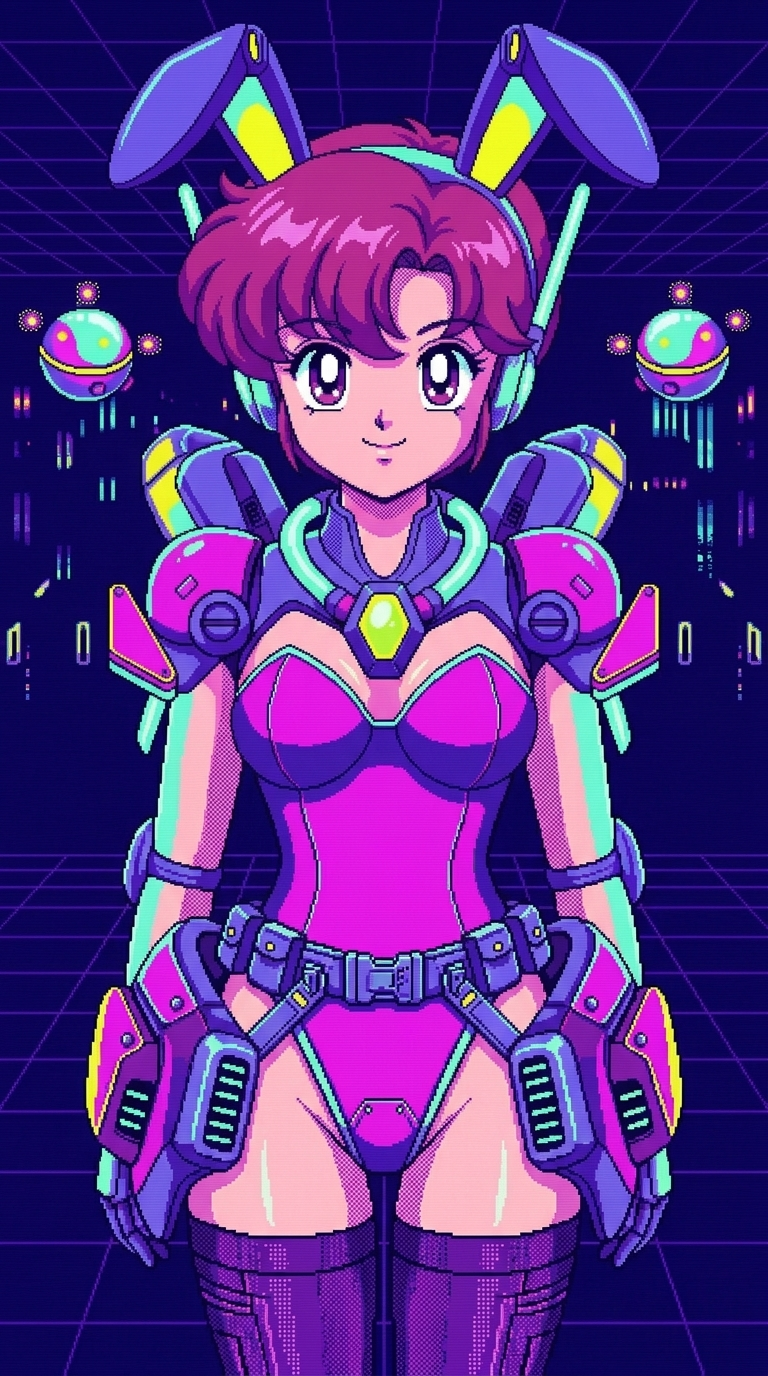
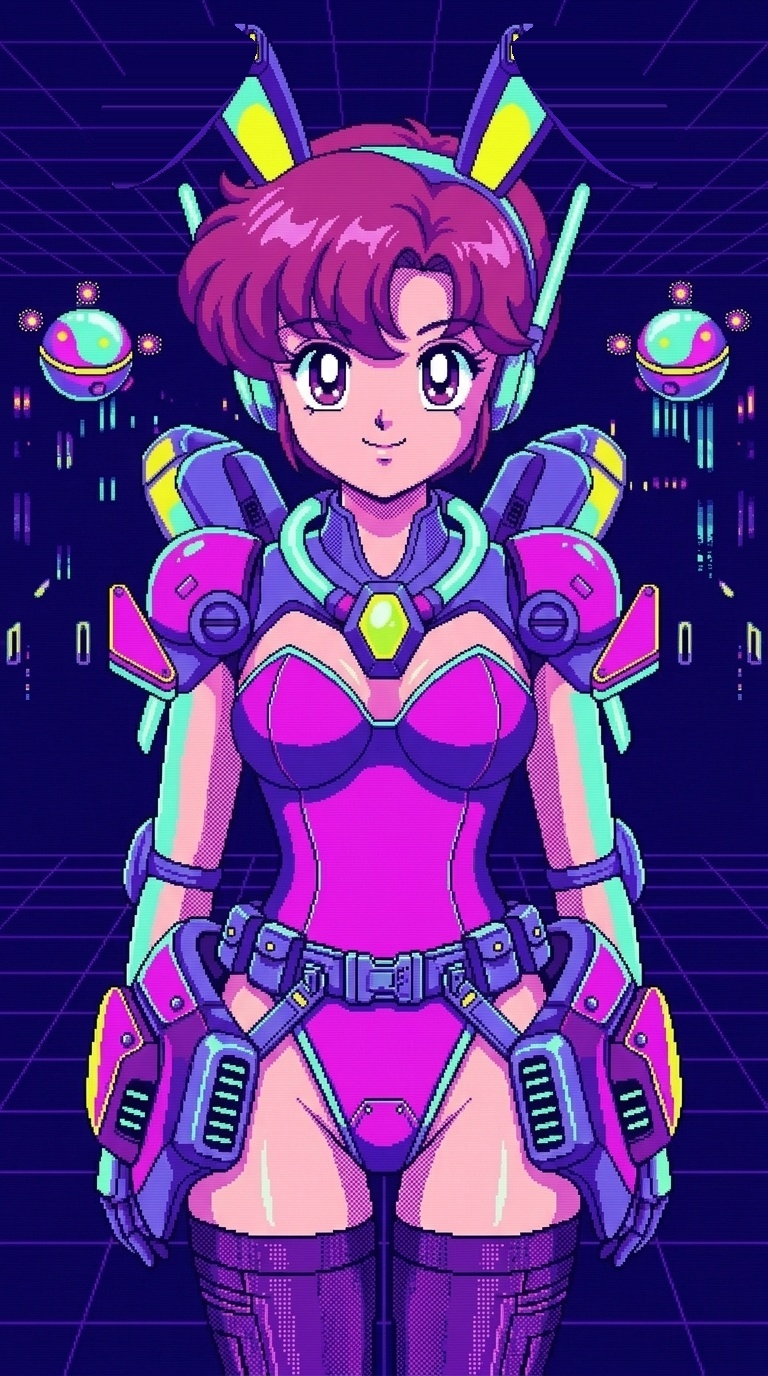
fix(render): isolate ear sprites with inpainted background to eliminate dark borders
Previously, dynamic ear swinging attempted to cover the static background
using a solid dark capsule underlay, and drew a clipped canvas slice of
the original illustration on top. This created unsightly black borders,
dark patches over the hair/cyber background, and a secondary ghosting
silhouette when the ear deflected.

This change delivers a proper 2D layered sprite pipeline:
- Extracted clean transparent PNG sprites (assets/stage1/ear_tip_L.png
  and ear_tip_R.png) with precise pixel boundaries for the purple dangling
  tips.
- Inpainted the underlying background images (centerpiece_armored.jpg
  and centerpiece.jpg), flawlessly extending the horizontal cyber grid
  lines, space gradient, and ear root frame behind the dangling tips.
- Rendered the ear tip sprites centered directly on their mechanical
  hinge pivots (ear.ax, ear.ay), swinging and squashing naturally with
  spring physics without any clipping masks, wireframe strokes, or black
  underlays.

TAG=agy
CONV=5c33f02a-cca7-4c71-903a-68b561f40031
MODEL=gemini-2.5-pro

Changed region(s): [[0.6562, 0.0, 0.875, 0.1562], [0.125, 0.0, 0.3438, 0.1562]]

diff --git a/js/game.js b/js/game.js
@@ -22,6 +22,11 @@ centerpieceImg.src = window.STAGE1_CENTERPIECE_URI || './assets/stage1/centerpie
 const centerpieceArmoredImg = new Image();
 centerpieceArmoredImg.src = './assets/stage1/centerpiece_armored.jpg';
 
+const earTipLImg = new Image();
+earTipLImg.src = './assets/stage1/ear_tip_L.png';
+const earTipRImg = new Image();
+earTipRImg.src = './assets/stage1/ear_tip_R.png';
+
 const defeatCgImg = new Image();
 defeatCgImg.src = './assets/stage1/defeat_cg.jpg';
 
@@ -1793,70 +1798,45 @@ function renderTable() {
       ctx.drawImage(facePatchImgs[activePatchKey], fx, fy, fw, fh);
     }
 
-    // Dynamic Rabbit Ear Tips Swing Animation ("ふにょん" elastic pendulum swing)
+    // Rabbit Ear Tips Sprite Rendering (Always rendered over background; swings with elastic pendulum physics)
     if (!isDefeat) {
-      const drawDynamicEarPatch = (which, ear) => {
-        const isSwinging = Math.abs(ear.angle) > 0.002 || Math.abs(ear.dx) > 0.1 || ear.flash > 0;
-        if (!isSwinging) return;
+      const drawEarTipSprite = (which, ear) => {
+        const img = which === "L" ? earTipLImg : earTipRImg;
+        if (!img.complete) return;
+
+        const isLeft = which === "L";
+        const pivotX = ear.ax;
+        const pivotY = ear.ay;
+
+        // Image scaling from 768x1376 to IMG_BOX
+        const sX = IMG_BOX.w / 768;
+        const sY = IMG_BOX.h / 1376;
+
+        // Pivot in sprite pixel coords
+        // Bboxes: L=(92, 22, 257, 185) -> hinge (255, 70) => (163, 48)
+        //         R=(512, 22, 677, 185) -> hinge (510, 70) => (-2, 48)
+        const sprPivotX = isLeft ? 163 : -2;
+        const sprPivotY = 48;
 
         ctx.save();
-        // Pivot at hinge joint
-        ctx.translate(ear.ax, ear.ay);
-
-        // Vector to tip in local coords
-        const localBx = ear.bx - ear.ax;
-        const localBy = ear.by - ear.ay;
-        const baseAngle = Math.atan2(localBy, localBx);
-        const earLen = Math.hypot(localBx, localBy);
-
-        // First, underlay mask to prevent ghosting behind the swinging ear
-        if (Math.abs(ear.angle) > 0.015) {
-          ctx.save();
-          ctx.rotate(baseAngle);
-          ctx.fillStyle = "#09031c"; // playfield background behind ear
-          ctx.beginPath();
-          ctx.arc(0, 0, ear.r + 2, Math.PI / 2, -Math.PI / 2);
-          ctx.lineTo(earLen, -ear.r * 0.9);
-          ctx.arc(earLen, 0, ear.r * 0.9, -Math.PI / 2, Math.PI / 2);
-          ctx.closePath();
-          ctx.fill();
-          ctx.restore();
-        }
-
-        // Apply swing angle around hinge
+        ctx.translate(pivotX, pivotY);
         ctx.rotate(ear.angle);
 
-        // Subtle elastic squash/stretch
-        const squash = Math.sin(ear.angle * 6) * 0.08;
+        // Subtle elastic squash/stretch during bounce
+        const squash = Math.sin(ear.angle * 6) * 0.05;
         ctx.scale(1 - squash, 1 + squash);
 
-        ctx.save();
-        ctx.rotate(baseAngle);
-        ctx.beginPath();
-        // Capsule contour matching dangling purple tip
-        ctx.arc(0, 0, ear.r, Math.PI / 2, -Math.PI / 2);
-        ctx.lineTo(earLen, -ear.r * 0.85);
-        ctx.arc(earLen, 0, ear.r * 0.85, -Math.PI / 2, Math.PI / 2);
-        ctx.closePath();
-        ctx.clip();
+        const drawX = -sprPivotX * sX;
+        const drawY = -sprPivotY * sY;
+        const drawW = img.width * sX;
+        const drawH = img.height * sY;
 
-        // Draw original art aligned
-        ctx.rotate(-baseAngle);
-        ctx.drawImage(baseImg, IMG_BOX.x - ear.ax, IMG_BOX.y - ear.ay, IMG_BOX.w, IMG_BOX.h);
-
-        // Soft elastic ripple / glow outline when hit
-        if (ear.flash > 0) {
-          ctx.strokeStyle = `rgba(230, 255, 0, ${Math.min(1, ear.flash / 8)})`;
-          ctx.lineWidth = 3;
-          ctx.stroke();
-        }
-        ctx.restore();
-
+        ctx.drawImage(img, drawX, drawY, drawW, drawH);
         ctx.restore();
       };
 
-      drawDynamicEarPatch("L", state.boss.earL);
-      drawDynamicEarPatch("R", state.boss.earR);
+      drawEarTipSprite("L", state.boss.earL);
+      drawEarTipSprite("R", state.boss.earR);
     }
   }
 

diff --git a/index.html b/index.html
@@ -256,7 +256,7 @@
   </div>
 
   <script src="./js/stage1_assets.js"></script>
-  <script src="./js/audio.js?v=7"></script>
-  <script src="./js/game.js?v=7"></script>
+  <script src="./js/audio.js?v=9"></script>
+  <script src="./js/game.js?v=9"></script>
 </body>
 </html>
